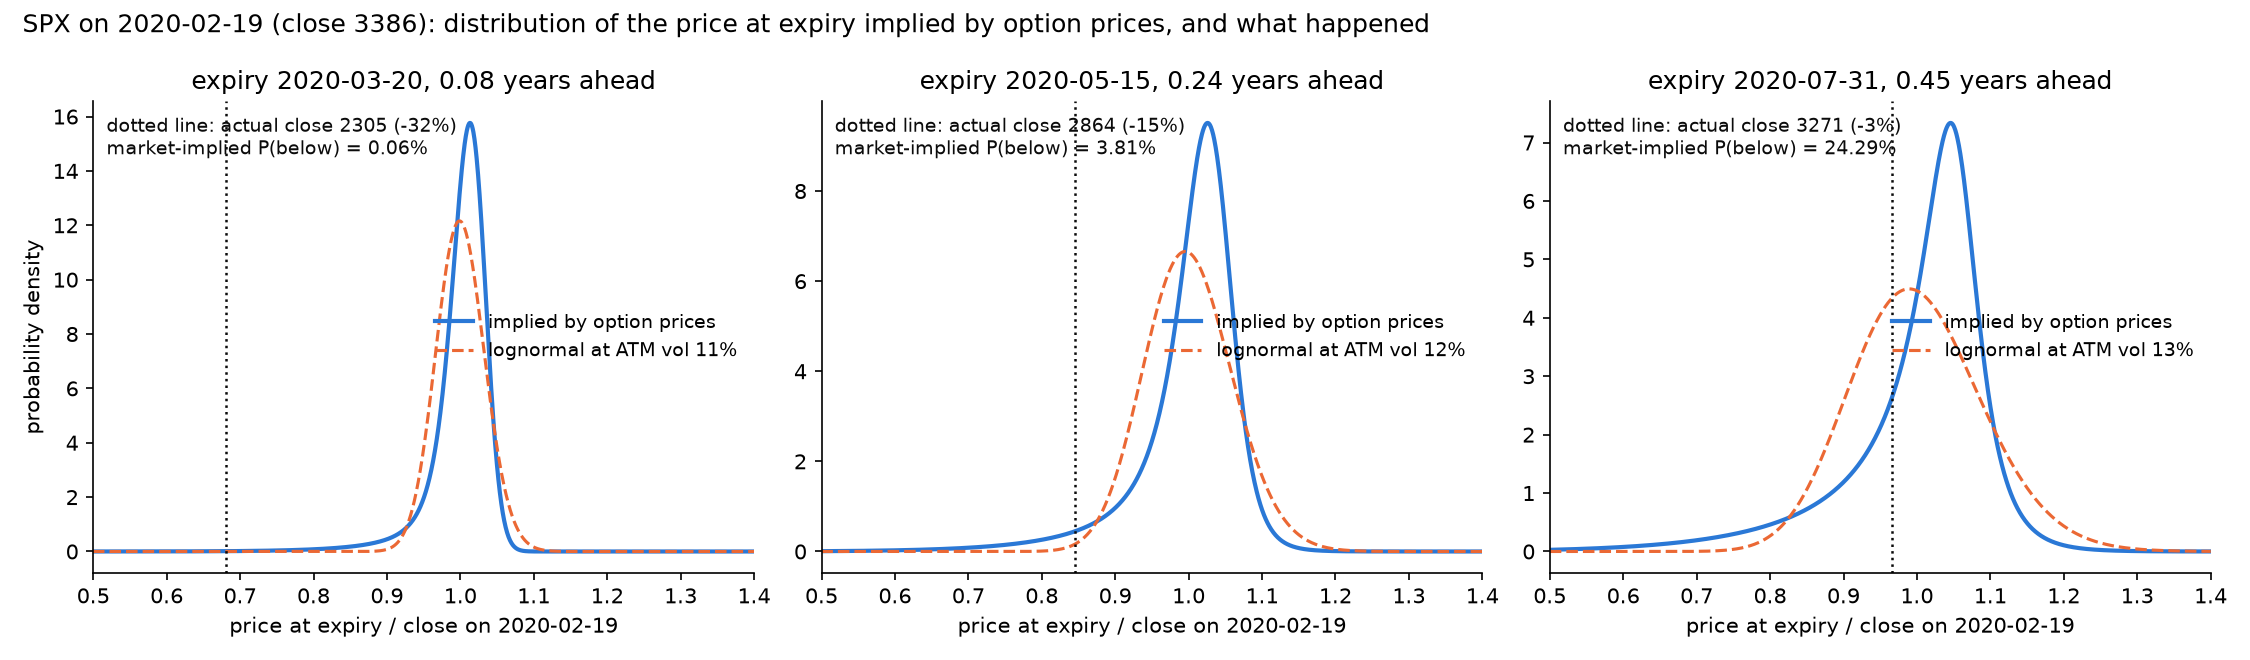
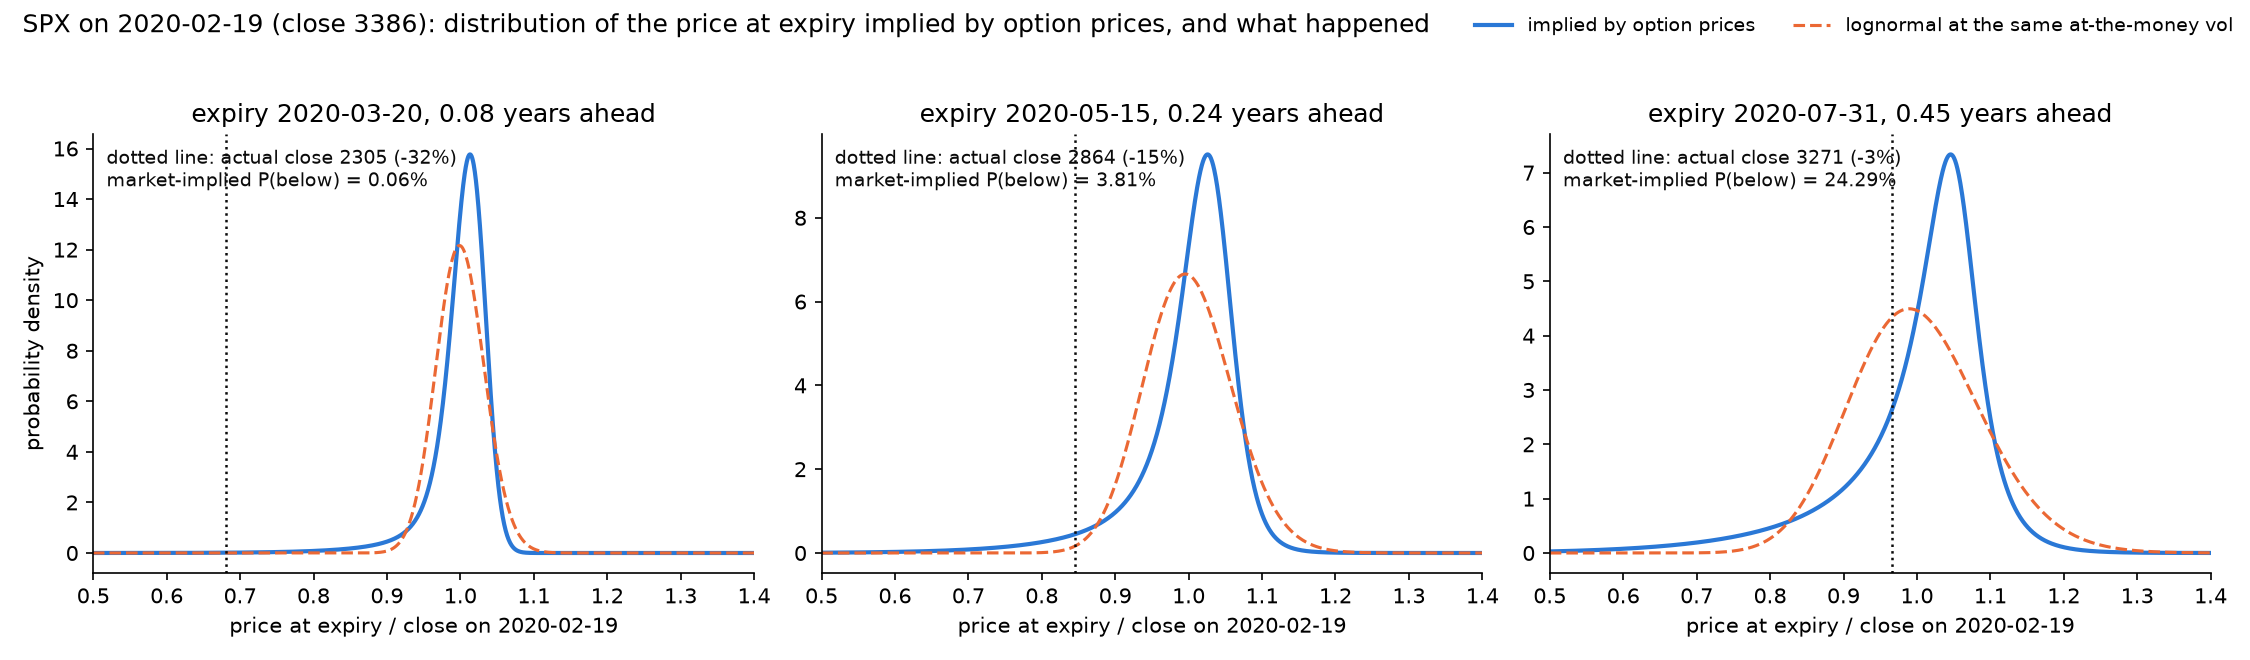
Shared legend

diff --git a/implied_distribution.py b/implied_distribution.py
@@ -169,17 +169,17 @@ def main(ticker, date):
               f"actual close {S_T:.0f} ({100 * (S_T / spot - 1):+.0f}%); market-implied P({word}) = {100 * prob:.2f}%, lognormal {100 * prob_ln:.2f}%")
 
         ax.plot(K / spot, dens * spot, color="#2a78d6", lw=2, label="implied by option prices")
-        ax.plot(K / spot, logn * spot, color="#eb6834", lw=1.5, ls="--", label=f"lognormal at ATM vol {100 * atm:.0f}%")
+        ax.plot(K / spot, logn * spot, color="#eb6834", lw=1.5, ls="--", label="lognormal at the same at-the-money vol")
         ax.axvline(S_T / spot, color="#0b0b0b", lw=1.2, ls=":")
         ax.text(0.02, 0.97, f"dotted line: actual close {S_T:.0f} ({100 * (S_T / spot - 1):+.0f}%)\nmarket-implied P({word}) = {100 * prob:.2f}%",
                 transform=ax.transAxes, va="top", fontsize=9, color="#0b0b0b")
         ax.set(xlim=(0.5, 1.4), xlabel=f"price at expiry / close on {date}", title=f"expiry {exdate.date()}, {T:.2f} years ahead")
         ax.spines[["top", "right"]].set_visible(False)
-        ax.legend(frameon=False, loc="center right", fontsize=9)
     axes[0].set_ylabel("probability density")
     fig.suptitle(f"{ticker} on {date} (close {spot:.0f}): distribution of the price at expiry implied by option prices, and what happened",
                  x=0.01, ha="left")
-    fig.tight_layout()
+    fig.legend(*axes[0].get_legend_handles_labels(), loc="upper right", ncol=2, frameon=False, fontsize=9)
+    fig.tight_layout(rect=(0, 0, 1, 0.95))
     fig.savefig(f"implied_distribution_{ticker}_{date}.png", dpi=150)
 
 
